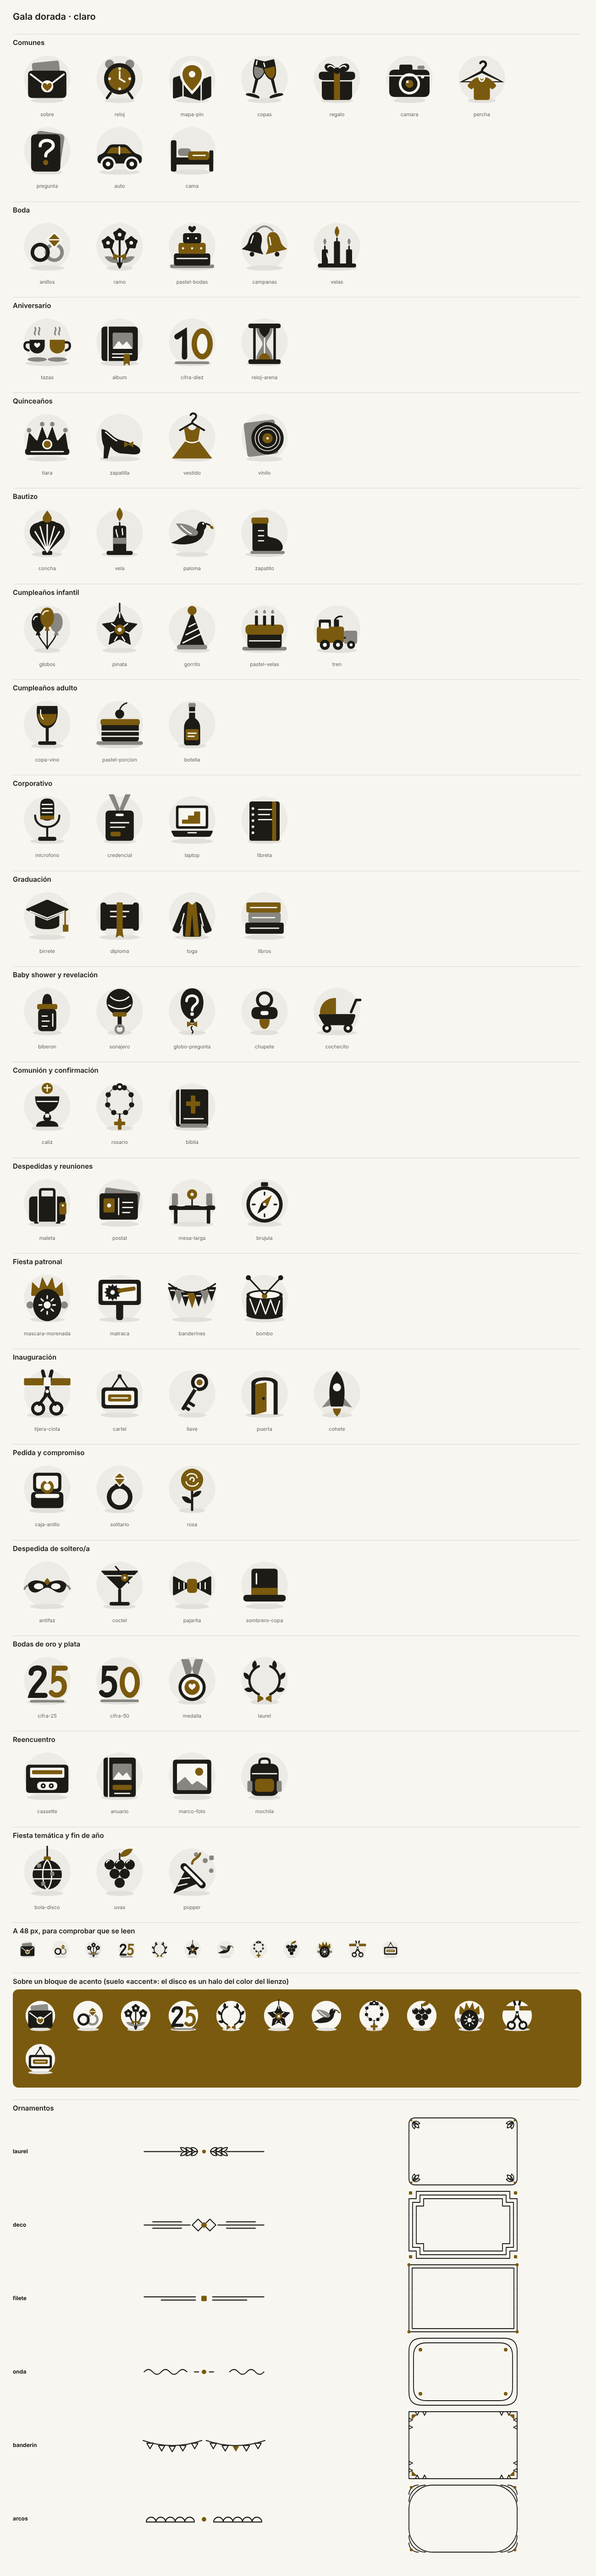
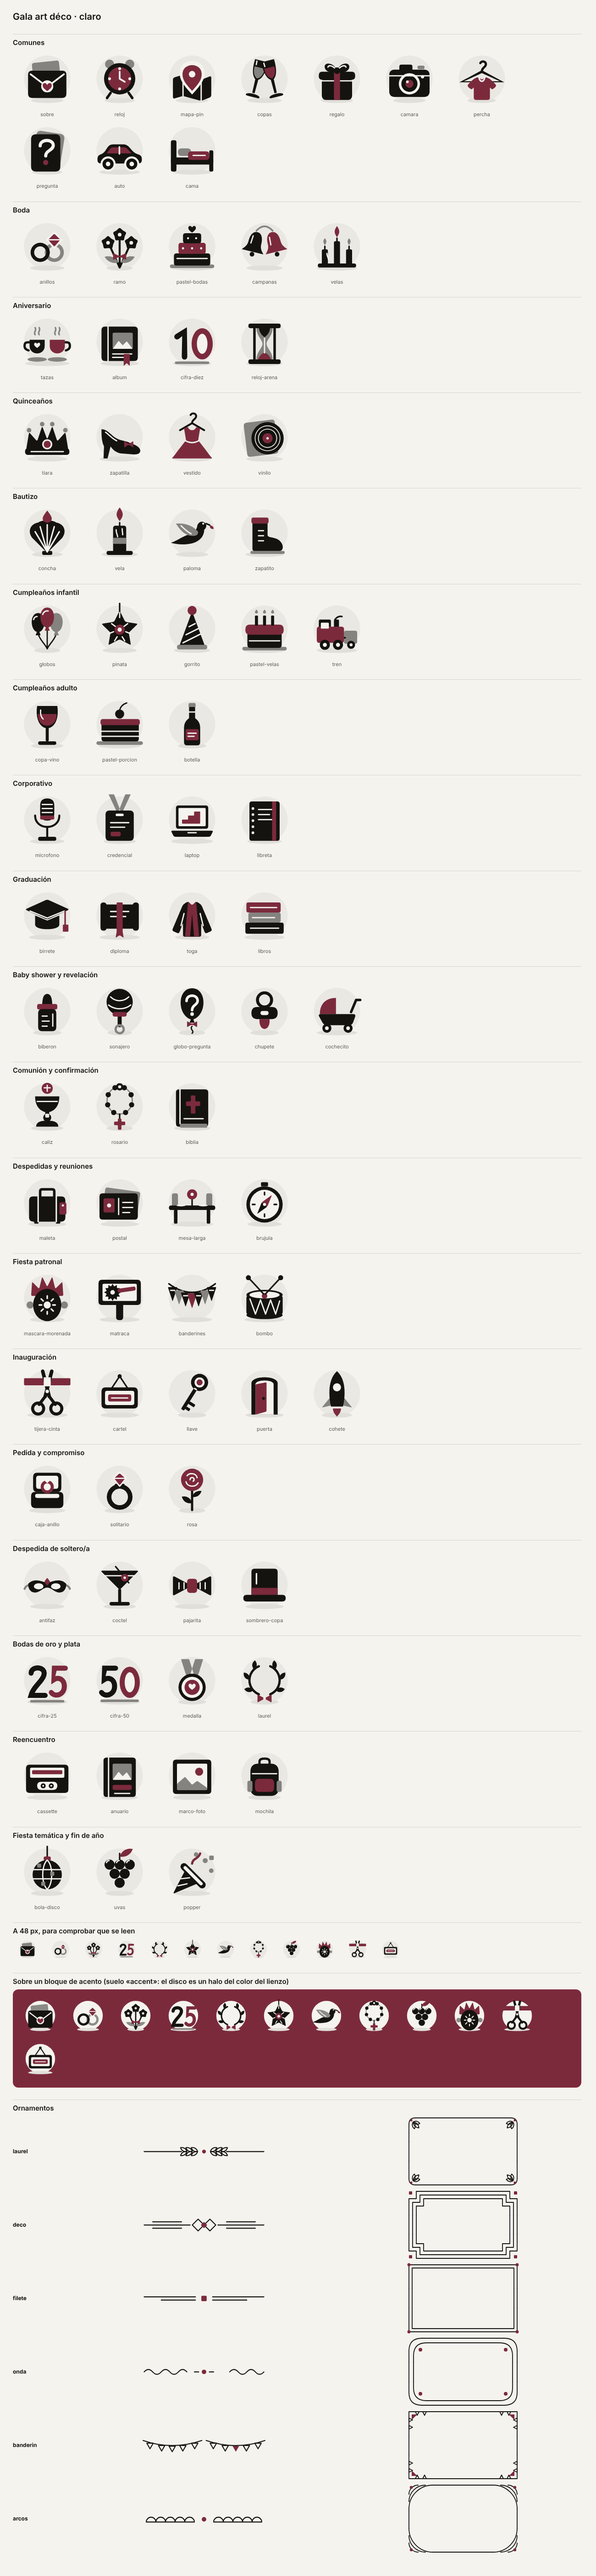
fix(plantillas): las pruebas y capturas de Gala usan el acento vino decidido por Pablo (PL-116-N7)
La fila gala-dorada conserva el id de la semilla del backend; nombre y paleta siguen «Gala art déco».
Capturas Linux de evidencia regeneradas; no se tocó ninguna línea base de Playwright.

diff --git a/packages/celebration-theme/test/seed-palettes.ts b/packages/celebration-theme/test/seed-palettes.ts
@@ -1,6 +1,11 @@
 /**
  * The 16 seeded templates (BE `seeds/templates/data/*.json` on `chore/deploy-contabo-coolify`, copied 2026-11-24): key, name,
  * layout and palette, the inputs the invitation art is measured against. If a seed changes, copy it again here.
+ *
+ * Exception, decided by Pablo (2026-11-24): the row `gala-dorada` follows the new direction «Gala art déco» (wine accent, never
+ * yellow), not the BE seed `016` («Gala dorada», accent `#7A5A0E`, a mustard). The id stays `gala-dorada` because it is the seed's
+ * id and the evidence file names; palette and name follow the prototype (`docs/design/prototipos-plantillas`). Copy the BE seed
+ * again only once it carries the wine accent.
  */
 import type { LayoutId, Palette } from "../src/types.js";
 
@@ -22,5 +27,5 @@ export const SEED_TEMPLATES: readonly SeedTemplate[] = [
   { key: "fiesta-lila", name: "Fiesta lila", layout: "festive", palette: { canvas: "#F8F4FF", surface: "#FFFFFF", text: "#241A36", accent: "#6A3BBF", muted: "#625774" } },
   { key: "menta-infantil", name: "Menta infantil", layout: "festive", palette: { canvas: "#F0FAF6", surface: "#FFFFFF", text: "#14302A", accent: "#0C7566", muted: "#4C6A63" } },
   { key: "corporativo-grafito", name: "Corporativo grafito", layout: "corporate", palette: { canvas: "#F4F5F6", surface: "#FFFFFF", text: "#17191C", accent: "#0B6E6A", muted: "#50565C" } },
-  { key: "gala-dorada", name: "Gala dorada", layout: "corporate", palette: { canvas: "#F8F6F0", surface: "#FFFFFF", text: "#1D1B16", accent: "#7A5A0E", muted: "#5E5848" } },
+  { key: "gala-dorada", name: "Gala art déco", layout: "corporate", palette: { canvas: "#F5F3EE", surface: "#FFFFFF", text: "#14130F", accent: "#7B2A3C", muted: "#57524D" } },
 ];

diff --git a/docs/progress/evidence/plantillas-f3/README.md b/docs/progress/evidence/plantillas-f3/README.md
@@ -53,7 +53,7 @@ Ornamentos (un solo trazo de 1,8, tinta + un acento): laurel, art déco, filete,
 
 ## Catálogo visual
 
-`yarn workspace @rsvp/celebration-theme art:catalogue` (con `CHROMIUM_PATH` si el Chromium no es el que pide Playwright) renderiza todos los dibujos y ornamentos con Chromium sobre cuatro paletas sembradas, en claro y oscuro: `clasico-marfil`, `pinata`, `gala-dorada` y `editorial-granate` (`*-claro.png`, `*-oscuro.png`). Se revisaron a ojo; se rehicieron copas, ramo, zapatilla, matraca, tijera, pastel, chupete (parecía una cara), banderines y los marcos.
+`yarn workspace @rsvp/celebration-theme art:catalogue` (con `CHROMIUM_PATH` si el Chromium no es el que pide Playwright) renderiza todos los dibujos y ornamentos con Chromium sobre cuatro paletas sembradas, en claro y oscuro: `clasico-marfil`, `pinata`, `gala-dorada` y `editorial-granate` (la fila `gala-dorada` conserva el id de la semilla del backend pero usa la dirección «Gala art déco», con acento vino `#7B2A3C`, decidida por Pablo; ver `test/seed-palettes.ts`) (`*-claro.png`, `*-oscuro.png`). Se revisaron a ojo; se rehicieron copas, ramo, zapatilla, matraca, tijera, pastel, chupete (parecía una cara), banderines y los marcos.
 
 ## Límites
 
